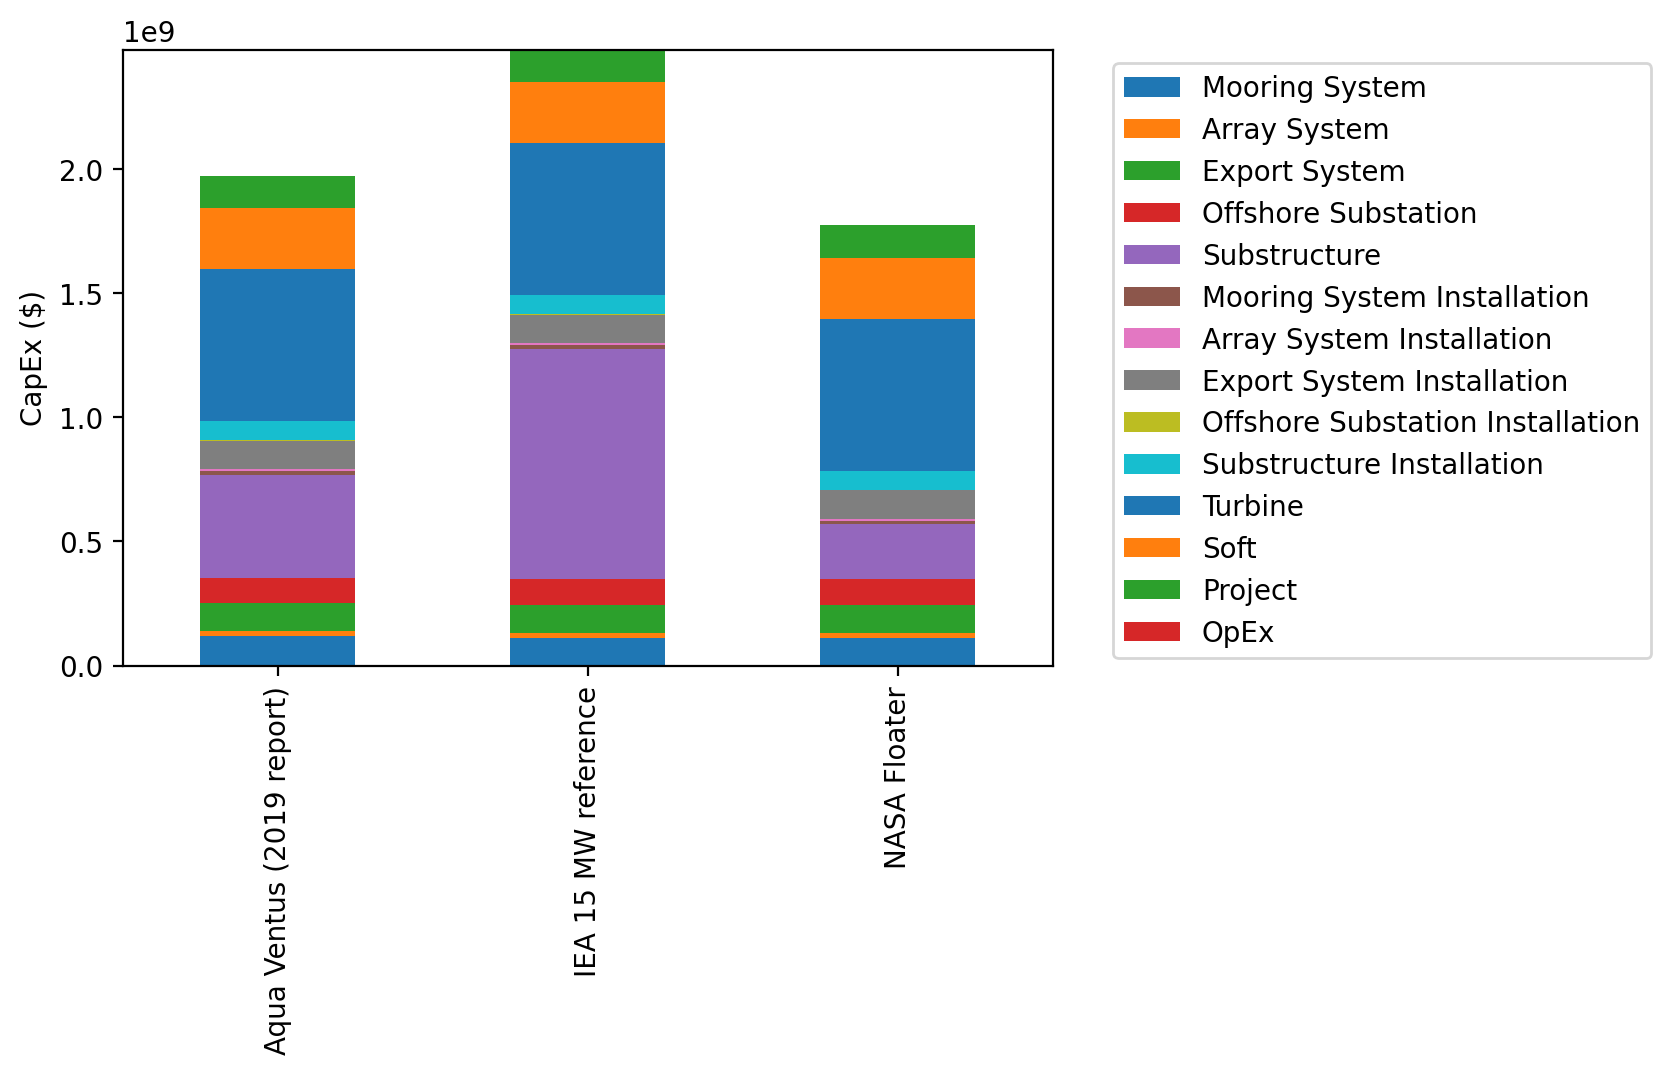
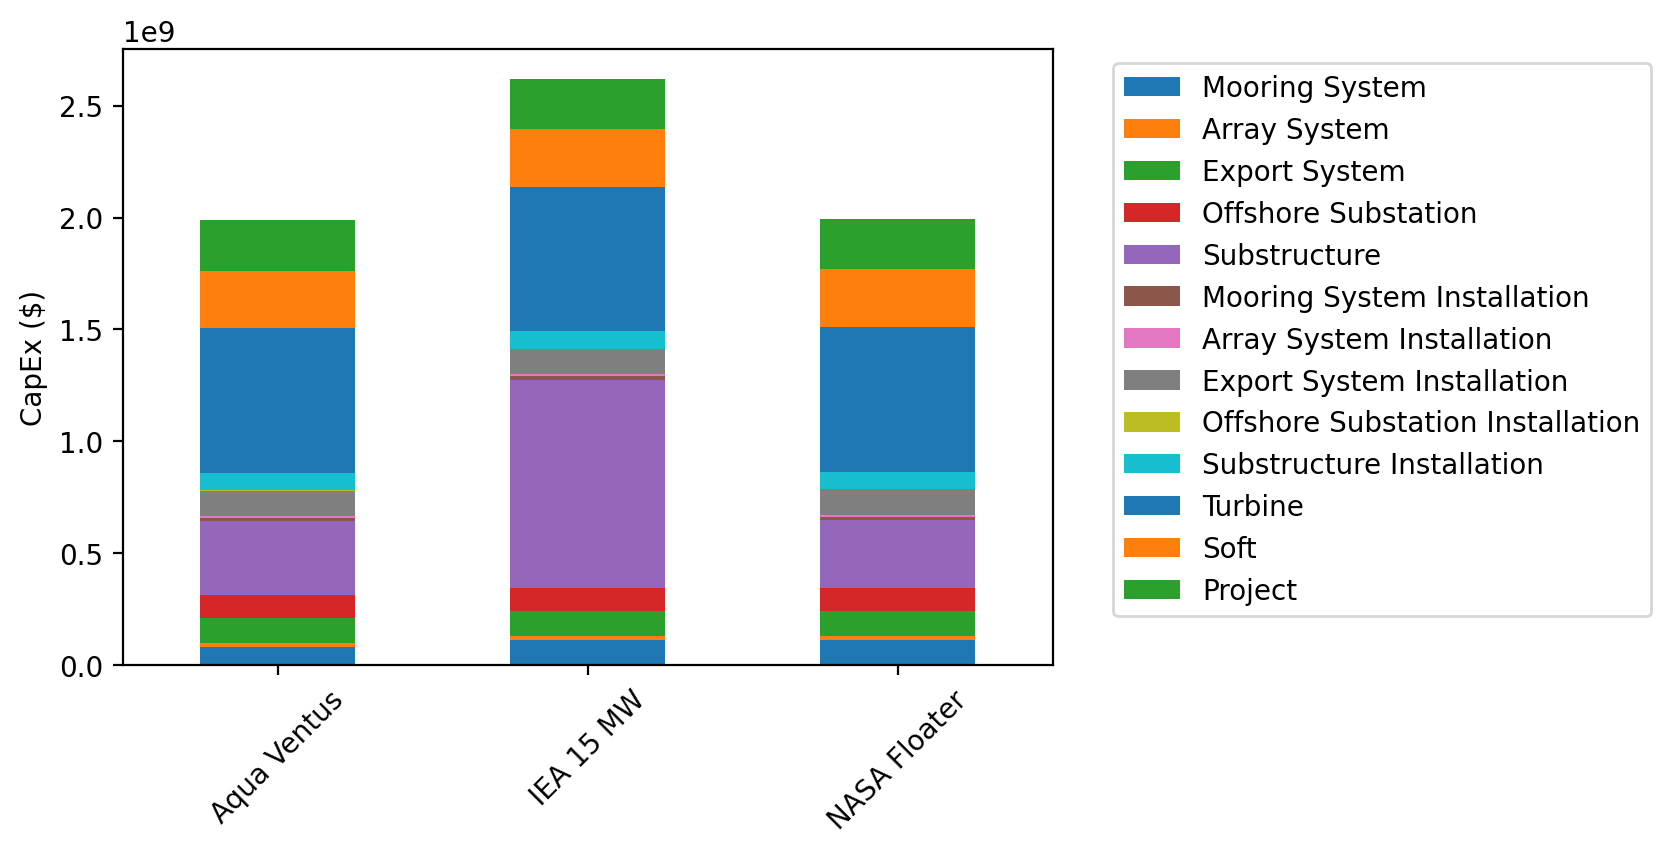
Results for first report draft.  Updated costs to $2021.  Added TMD damper sensitivity

diff --git a/create_plots.py b/create_plots.py
@@ -10,12 +10,12 @@ import os
 
 import pandas as pd
 import matplotlib.pyplot as plt
-
+from copy import deepcopy
 
 SCENARIO_MAP = {
     # '2019 Aqua Ventus': 'Aqua Ventus (2019 report)',
-    'Aqua Ventus': 'Aqua Ventus (2019 report)',
-    'IEA 15MW': 'IEA 15 MW reference',
+    'Aqua Ventus': 'Aqua Ventus',
+    'IEA 15MW': 'IEA 15 MW',
     'NASA Floater': 'NASA Floater'
 }
 
@@ -54,7 +54,7 @@ def total_capex_plots(df):
     fig = plt.figure(figsize=(6, 4), dpi=200)
     ax = fig.add_subplot(111)
 
-    df.plot(kind='bar', ax=ax)
+    df.plot(kind='bar', ax=ax, rot=45)
 
     ax.set_xlabel("")
     ax.set_ylabel("CapEx ($)")
@@ -65,7 +65,8 @@ def total_capex_plots(df):
     fig = plt.figure(figsize=(6, 4), dpi=200)
     ax = fig.add_subplot(111)
 
-    df.divide(PROJECT_kW).plot(kind='bar', ax=ax)
+    df.divide(PROJECT_kW).plot(kind='bar', ax=ax, rot=45)
+    print(df.divide(PROJECT_kW))
 
     ax.set_xlabel("")
     ax.set_ylabel("CapEx ($/kW)")
@@ -73,7 +74,7 @@ def total_capex_plots(df):
     fig.savefig(os.path.join(FIGDIR, "total_per_kW.png"), bbox_inches='tight')
 
     # LCOE - Match Aqua Ventus report (https://www.nrel.gov/docs/fy20osti/75618.pdf)
-    opex = 38
+    opex = 40.1  # Inflated to $2021
     fcr = .0718
     ncf = 0.5086
 
@@ -88,7 +89,18 @@ def total_capex_plots(df):
 
     fig.savefig(os.path.join(FIGDIR, "LCOE.png"), bbox_inches='tight')
 
-
+    # Opex and CapEx
+    # mwh = ncf * 8760
+    # opex_per_mwh = opex / mwh
+    #
+    # df_capex_opex = deepcopy(df)
+    # df_capex_opex['BOS_per_MWh'] = (df_capex_opex['BOS'] / (PROJECT_kW / 1000) )/ (mwh )
+    #
+    # # capex_opex = {
+    # #     'BOS': (df['BOS'] * 1000 / PROJECT_kW) / mwh
+    # # }
+    # #
+    # print(df_capex_opex, mwh)
 def capex_breakdown_plots(df):
     """"""
 
@@ -96,9 +108,7 @@ def capex_breakdown_plots(df):
     fig = plt.figure(figsize=(6, 4), dpi=200)
     ax = fig.add_subplot(111)
 
-    df.loc['OpEx'] = [.38, .38, .38]
-
-    df.T.plot(kind='bar', stacked=True, ax=ax).legend(bbox_to_anchor=(1.05, 1))
+    df.T.plot(kind='bar', stacked=True, ax=ax, rot=45).legend(bbox_to_anchor=(1.05, 1))
 
     ax.set_xlabel("")
     ax.set_ylabel("CapEx ($)")
@@ -109,12 +119,32 @@ def capex_breakdown_plots(df):
     fig = plt.figure(figsize=(6, 4), dpi=200)
     ax = fig.add_subplot(111)
 
-    df.divide(PROJECT_kW).T.plot(kind='bar', stacked=True, ax=ax).legend(bbox_to_anchor=(1.05, 1))
+    df.divide(PROJECT_kW).T.plot(kind='bar', stacked=True, ax=ax, legend=False, rot=45)
 
     ax.set_xlabel("")
     ax.set_ylabel("CapEx ($/kW)")
 
     fig.savefig(os.path.join(FIGDIR, "breakdown_per_kW.png"), bbox_inches='tight')
+
+    # Raw CapEx and Opex (all per MWH)
+    mwh = 0.5086 * 8760
+    opex = 40.1  # Inflated to $2021
+
+    df_per_kw = (df * .058).divide(PROJECT_kW)
+    df_per_kw.loc['Opex'] = [opex]*3
+    df_per_mwh = (df_per_kw*1000) / mwh
+    print( df_per_mwh.loc[['Substructure'], ['NASA Floater']] / df_per_mwh.sum()['NASA Floater'])
+    print( df_per_mwh.loc[['Opex'], ['NASA Floater']] / df_per_mwh.sum()['NASA Floater'])
+
+    fig = plt.figure(figsize=(6, 4), dpi=200)
+    ax = fig.add_subplot(111)
+
+    df_per_mwh.T.plot(kind='bar', stacked=True, ax=ax, rot=45).legend(bbox_to_anchor=(1.05, 1))
+
+    ax.set_xlabel("")
+    ax.set_ylabel("Project costs ($/MWh)")
+
+    fig.savefig(os.path.join(FIGDIR, "breakdown_per_mwh.png"), bbox_inches='tight')
 
 
 def installation_time_plots(df):
@@ -129,8 +159,25 @@ def installation_time_plots(df):
 
     fig.savefig(os.path.join(FIGDIR, "installation_times.png"), bbox_inches='tight')
 
+def tmd_sensitivity():
+    fig = plt.figure(figsize=(6, 4), dpi=200)
+    ax = fig.add_subplot(111)
+
+    tmd_cost = [1,2,4,6,8,10]
+    lcoe = [60.4, 60.6, 61.1, 61.6, 62.1, 62.5]
+    lcoe_diff = [100* (l - lcoe[0]) / lcoe[0] for l in lcoe]
+
+    ax.plot(tmd_cost, lcoe_diff)
+
+    ax.set_xlabel("Scaling factor for TMD cost")
+    ax.set_ylabel("Percent change in LCOE")
+
+    fig.savefig(os.path.join(FIGDIR, "tmd_sensitivity.png"), bbox_inches='tight')
+
+
 if __name__ == "__main__":
 
     total_capex_plots(TOTALS)
     capex_breakdown_plots(BREAKDOWNS)
     installation_time_plots(INSTALL)
+    tmd_sensitivity()

diff --git a/run_analysis.py b/run_analysis.py
@@ -9,6 +9,7 @@ import numpy as np
 import pandas as pd
 import datetime as dt
 from copy import deepcopy
+import pprint
 
 from ORBIT import ProjectManager
 from configs import configs
@@ -19,12 +20,12 @@ from semisub_pontoon_design import CustomSemiSubmersibleDesign
 initialize_library("data")
 
 PROJECT_kW = 600 * 1000
-AQUA_VENTUS_MOOR_PERC = 0.29
-AQUA_VENTUS_SUB_COSTS = 690 * PROJECT_kW # $
+AQUA_VENTUS_MOOR_PERC = 0.25
+AQUA_VENTUS_SUB_COSTS = (1-AQUA_VENTUS_MOOR_PERC) * 728 * PROJECT_kW # $
 AQUA_VENTUS_MOOR_COSTS = AQUA_VENTUS_MOOR_PERC * AQUA_VENTUS_SUB_COSTS
 AQUA_VENTUS_ELEC_COSTS = 466 * PROJECT_kW # $
 TRANSPORT_COSTS = 1e6 / 5000  # $/t
-NASA_FLOATER_SUB_COSTS = 369.54 * PROJECT_kW
+NASA_FLOATER_SUB_COSTS = 369.17 * PROJECT_kW
 
 WEATHER_FILES = {
     "US_east_coast": "data/weather/vineyard_2014_onward.csv",
@@ -34,7 +35,6 @@ WEATHER_FILES = {
 WEATHER = {k: pd.read_csv(v, parse_dates=["datetime"]).set_index("datetime")
            for k, v in WEATHER_FILES.items()}
 START_MONTH = 4
-
 
 def run():
 
@@ -54,6 +54,7 @@ def run():
         if weather:
             print(f"\tUsing weather from '{WEATHER_FILES[weather]}'")
             weather = WEATHER[weather]
+            print(weather.describe())
 
         yrs = 0
         for yr in np.unique(weather.index.year):
@@ -63,6 +64,9 @@ def run():
             try:
                 project = ProjectManager(config, weather=sub)
                 project.run()
+
+                # print(project.detailed_output)
+
                 yrs += 1
 
             except:
@@ -115,16 +119,16 @@ def append_capex(name, project):
         breakdown["Substructure Transportation"] = cost
         total = project.total_capex + cost
         bos = project.bos_capex + cost
-    elif "2019 Aqua Ventus" in name:
-        breakdown = deepcopy(project.capex_breakdown)
-
-        bos = project.bos_capex - breakdown['Substructure'] - breakdown['Mooring System'] + AQUA_VENTUS_SUB_COSTS + AQUA_VENTUS_MOOR_COSTS + AQUA_VENTUS_ELEC_COSTS
-
-        total = project.total_capex - breakdown['Substructure'] - breakdown['Mooring System'] + AQUA_VENTUS_SUB_COSTS + AQUA_VENTUS_MOOR_COSTS + AQUA_VENTUS_ELEC_COSTS
-
-        breakdown["Substructure"] = AQUA_VENTUS_SUB_COSTS
-        breakdown["Mooring System"] = AQUA_VENTUS_MOOR_COSTS
-        breakdown["Electrical System"] = AQUA_VENTUS_ELEC_COSTS
+    # elif "2019 Aqua Ventus" in name:
+    #     breakdown = deepcopy(project.capex_breakdown)
+    #
+    #     bos = project.bos_capex - breakdown['Substructure'] - breakdown['Mooring System'] + AQUA_VENTUS_SUB_COSTS + AQUA_VENTUS_MOOR_COSTS + AQUA_VENTUS_ELEC_COSTS
+    #
+    #     total = project.total_capex - breakdown['Substructure'] - breakdown['Mooring System'] + AQUA_VENTUS_SUB_COSTS + AQUA_VENTUS_MOOR_COSTS + AQUA_VENTUS_ELEC_COSTS
+    #
+    #     breakdown["Substructure"] = AQUA_VENTUS_SUB_COSTS
+    #     breakdown["Mooring System"] = AQUA_VENTUS_MOOR_COSTS
+    #     breakdown["Electrical System"] = AQUA_VENTUS_ELEC_COSTS
 
     elif "Aqua Ventus" in name:
         breakdown = deepcopy(project.capex_breakdown)
@@ -148,6 +152,8 @@ def append_capex(name, project):
         breakdown = deepcopy(project.capex_breakdown)
         total = project.total_capex
         bos = project.bos_capex
+        pp = pprint.PrettyPrinter(indent=4)
+        pp.pprint(project.detailed_outputs)
 
     return total, bos, breakdown
 

diff --git a/configs.py b/configs.py
@@ -22,20 +22,20 @@ US_east_coast = {
         "monthly_rate": 1e6,
     },
     'project_parameters': {
-        'turbine_capex': 1020,
+        'turbine_capex': 1076,
         # 'ncf': 0.5,
         # 'offtake_price': 80,
         # 'project_lifetime': 25,
         # 'discount_rate': 0.025,
         # 'opex_rate': 150,
-        'construction_insurance': 30,
-        'construction_financing': 124,
-        'contingency': 196,
-        'commissioning': 30,
-        'decommissioning': 28,
-        'site_auction_price': 52925529,
-        'site_assessment_cost': 50486746,
-        'construction_plan_cost': 28604389,
+        'construction_insurance': 32,
+        'construction_financing': 130,
+        'contingency': 207,
+        'commissioning': 32,
+        'decommissioning': 30,
+        'site_auction_price': 90000000,
+        'site_assessment_cost': 85000000,
+        'construction_plan_cost': 49000000,
         'installation_plan_cost': 0
     },
     "turbine": "15MW",

diff --git a/common.py b/common.py
@@ -22,9 +22,9 @@ base = {
     # "turbine": "10MW_generic",
 
     "port": {
-        "sub_assembly_lines": 3,
+        "sub_assembly_lines": 1,
         # "sub_storage": "int (optional, default: inf)",
-        "turbine_assembly_cranes": 3,
+        "turbine_assembly_cranes": 1,
         # "assembly_storage": "int (optional, default: inf)",
         # "monthly_rate": "USD/mo (optional)",
         # "name": "str (optional)",
